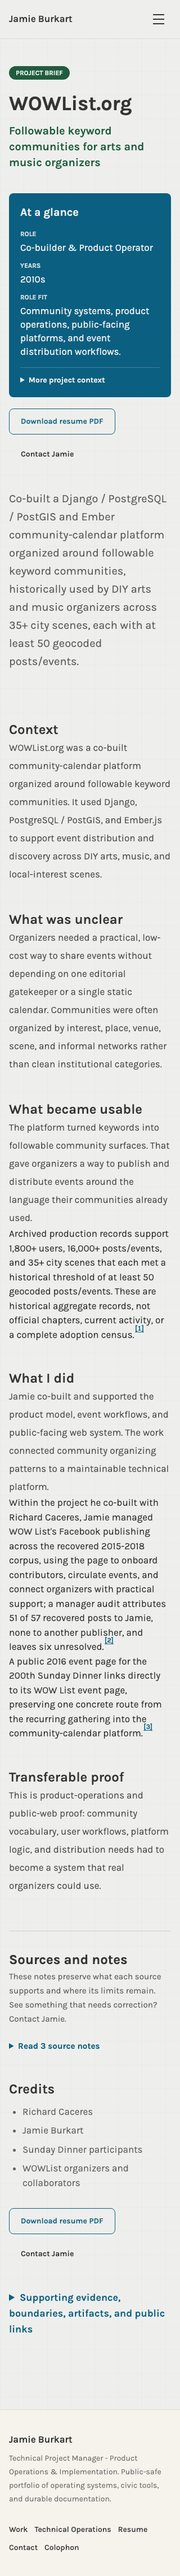
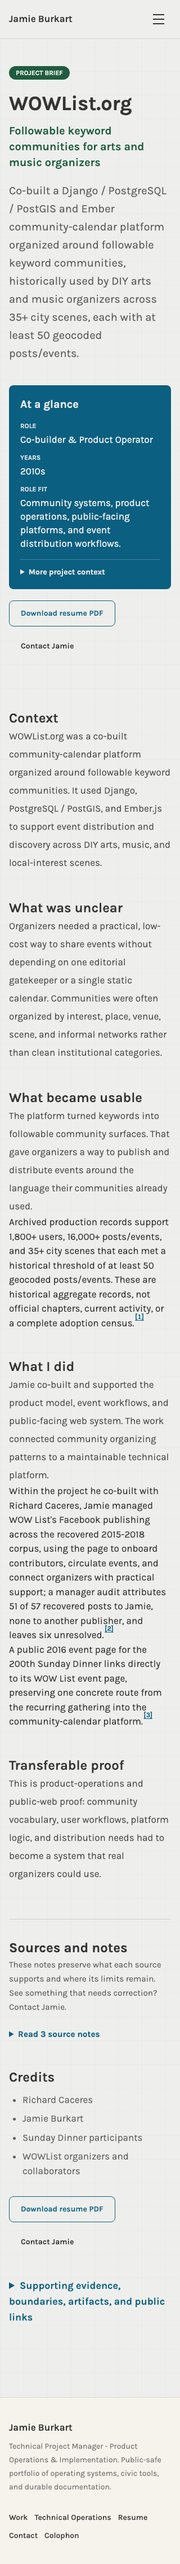
Lead case studies with the result on mobile

Changed region(s): [[0.0312, 0.0311, 0.9688, 0.9009]]

diff --git a/apps/www/src/components/CaseStudyLayout.tsx b/apps/www/src/components/CaseStudyLayout.tsx
@@ -54,6 +54,7 @@ export function CaseStudyLayout({ item, children }: CaseStudyLayoutProps) {
             {item.title}
           </h1>
           <p className="mt-3 text-xl font-semibold text-jb-green">{item.subtitle}</p>
+          <p className="mt-5 text-xl leading-8 text-jb-ink/78 lg:hidden">{item.summary}</p>
           <p className="mt-5 hidden text-xl leading-8 text-jb-ink/78 lg:block">{item.summary}</p>
         </header>
         <aside className="space-y-5 lg:col-start-2 lg:row-span-2 lg:row-start-1 lg:sticky lg:top-28 lg:self-start">
@@ -67,7 +68,6 @@ export function CaseStudyLayout({ item, children }: CaseStudyLayoutProps) {
             </JBButton>
           </div>
         </aside>
-        <p className="text-xl leading-8 text-jb-ink/78 lg:hidden">{item.summary}</p>
         <div className="prose max-w-none prose-headings:text-jb-ink prose-p:text-jb-ink/82 prose-a:text-jb-blue prose-strong:text-jb-ink lg:col-start-1 lg:row-start-2">
           {children}
           <References pageId={item.slug} />
